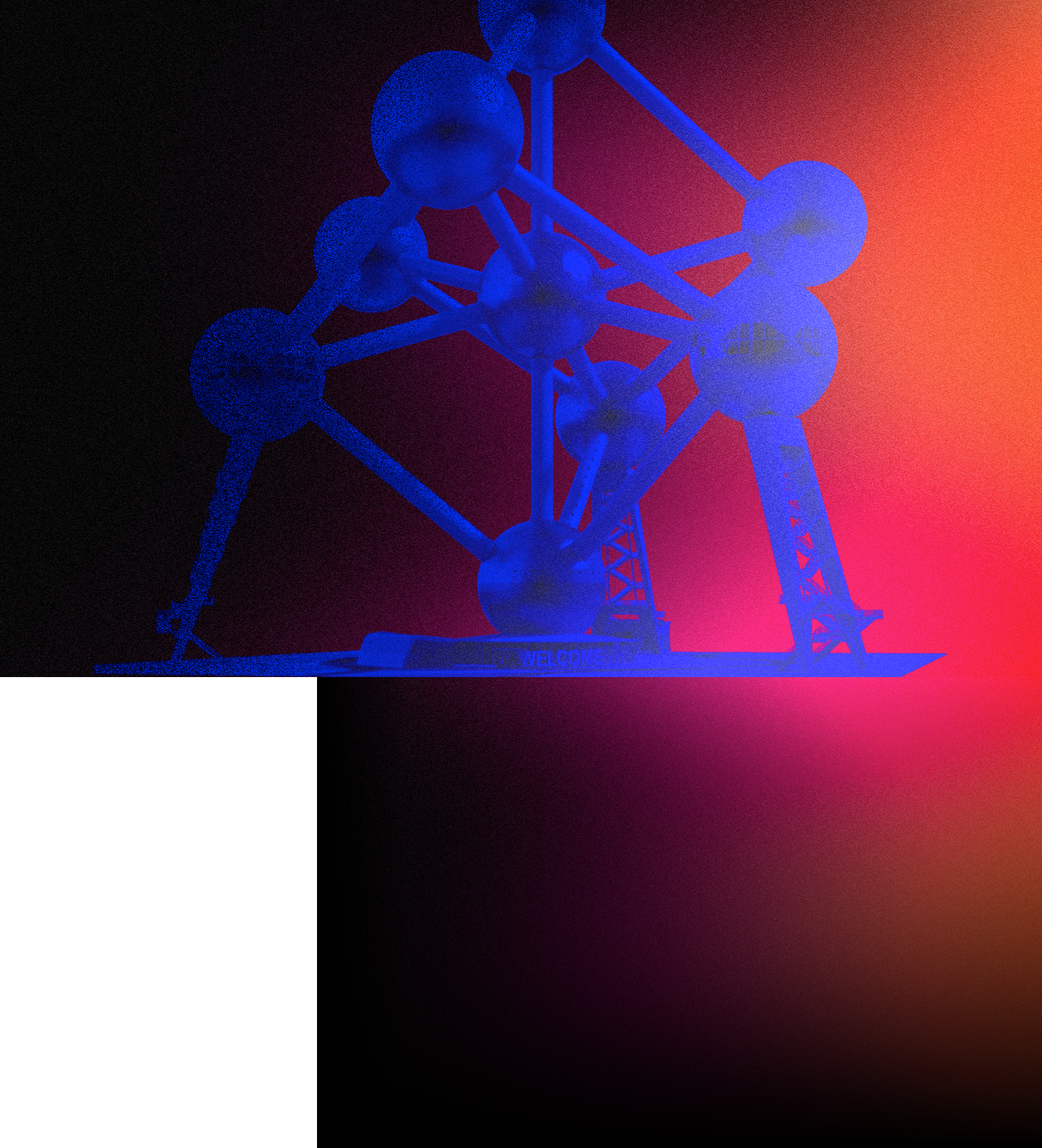
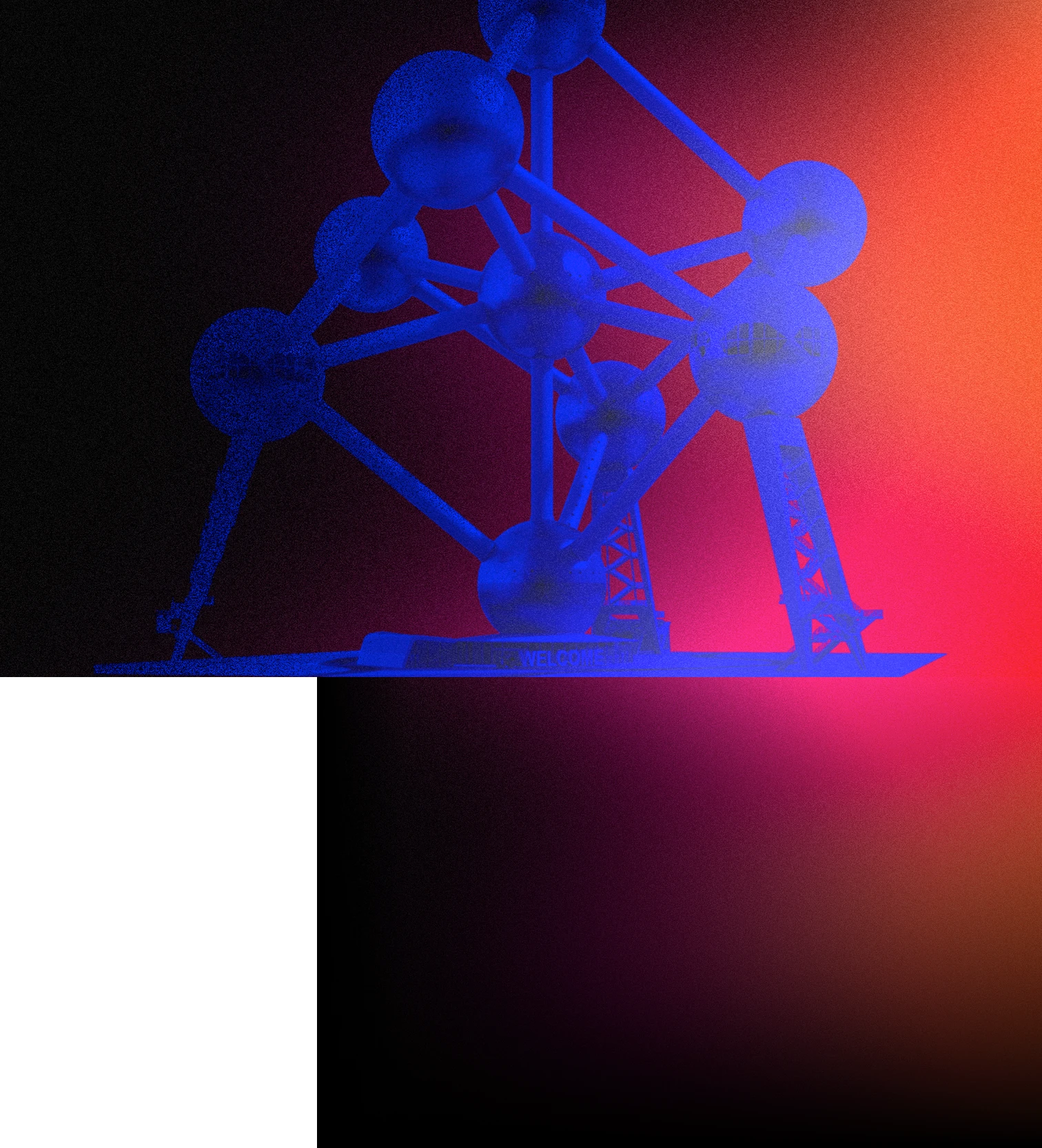
perf(frontpage): compress background images without losing quality

Changed region(s): [[0.0933, 0.0, 0.5284, 0.5934], [0.5595, 0.0, 0.5906, 0.0312], [0.373, 0.406, 0.4041, 0.4372]]

diff --git a/templates/index.html b/templates/index.html
@@ -3,8 +3,8 @@
 {% block head %}
 
 <link rel="preload" as="image" href="/images/dt_hero_1.webp">
-<link rel="preload" as="image" href="/images/dt_hero_2.webp">
 <link rel="preload" as="image" href="/images/dt_hero_2.jpg">
+<link rel="preload" as="image" href="/images/dt_hero_3.jpg">
 
 {% endblock head %}
 

diff --git a/sass/app.scss b/sass/app.scss
@@ -39,7 +39,7 @@ $atomium-bg-width: 1429px;
 
 .background-container.right {
   @include desktop-and-tablet-only {
-    background: url("/images/dt_hero_2.webp") top left no-repeat;
+    background: url("/images/dt_hero_3.jpg") top left no-repeat;
     background-size: $atomium-bg-width auto;
   }
 }
